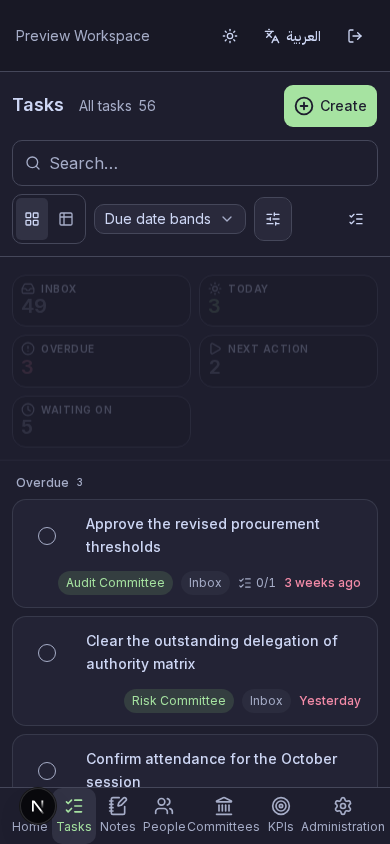
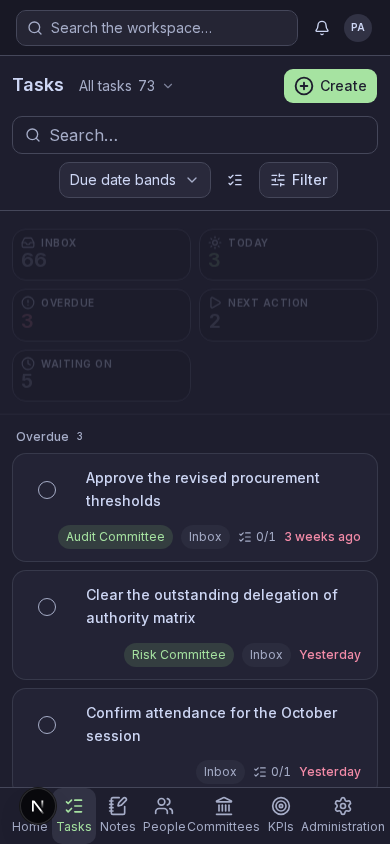
fix(shell): the header fits a phone, and the strip stands in for the rail
The search control used `w-full`, which on a flex item is the whole row
rather than the space that is left, and the button variant is shrink-0 --
so beside the bell and the avatar it pushed the header past 390px and
every entity page scrolled sideways on a phone. It takes the remaining
width and gives it back now.

EP-B32 to EP-B35 are written into the entity spec, and the summaries
scenario asserts the rule rather than the old behaviour: with the rail
open the strip is not drawn, because the rail is already showing those
views and counts; collapsing the rail is what brings it back.

diff --git a/e2e/tasks.spec.ts b/e2e/tasks.spec.ts
@@ -50,7 +50,13 @@ test('TASKS-B02 TASKS-B08 EP-B20 task cards retain an independent completion con
   const result = await api(page, '', 'POST', { title, priority: 'high' });
   const id = String(result.body.data.id);
   await page.goto(`/tasks?view=all&q=${encodeURIComponent(title)}`);
-  const firstSummary = page.locator('[data-entity-stats]').getByRole('button').first();
+  // EP-B35: the strip stands in for the rail and never doubles it. With the rail open at this
+  // width the same views and counts are already on screen, so the strip is not drawn; collapsing
+  // the rail is what brings it back, Inbox first and rounded.
+  const summaries = page.locator('[data-entity-stats]');
+  await expect(summaries).toBeHidden();
+  await page.getByRole('button', { name: en.common.collapseViews }).click();
+  const firstSummary = summaries.getByRole('button').first();
   await expect(firstSummary).toContainText(en.tasks.inbox);
   expect(await firstSummary.evaluate((element) => Number.parseFloat(getComputedStyle(element).borderRadius))).toBeGreaterThan(0);
   const open = page.locator(`[data-row-id="${id}"]`);

diff --git a/src/ui/layout/ShellHeader.tsx b/src/ui/layout/ShellHeader.tsx
@@ -26,7 +26,10 @@ export function ShellHeader({ user }: { user: { name: string; email: string } })
           typed and no state to hand over when it opens. */}
       <Button
         variant="outline"
-        className="w-full max-w-md justify-start gap-2 font-normal text-text-muted"
+        // `w-full` on a flex item is 100% of the row, not "the space that is left", and the button
+        // variant is `shrink-0` — so beside the bell and the avatar it pushed the header wider than
+        // a 390px screen. It takes the remaining width and is allowed to give it back instead.
+        className="min-w-0 flex-1 shrink basis-0 justify-start gap-2 font-normal text-text-muted sm:max-w-md"
         onClick={() => setSearching(true)}
       >
         <Search aria-hidden={true} className="size-4" />

diff --git a/docs/features/entity-pages.md b/docs/features/entity-pages.md
@@ -57,7 +57,7 @@ Twelve top-level props is the ceiling (`07-coding-guidelines.md`); related optio
 
 ## Layout
 
-- EP-B07 Desktop (≥ 1024 px): rail 208 px (collapsible, ≥ 1280 px), list, and the detail as a slide-over over the list at `clamp(480px, 46%, 880px)` of the window, running the full height of the viewport flush against its end edge, over the shell header as well as the page (EP-B26). The list keeps the width it had before the record opened: nothing resizes and no row moves under the click that opened it. 480 px stays the floor and 880 px the ceiling because that is the measure a property form reads at; the share is now of what the panel covers rather than of what it displaces. The list column opens with one sticky bar that carries the page title, the current view and its count (a button into the filter sheet where the rail is hidden), search, Filter, selection mode and the primary Create action; the page description is exposed to assistive technology only. Card lists place Create above the desktop views rail and use a compact search/sort/action toolbar; without a visible rail, the title/view and Create remain above it (EP-B22). Rows are 44 px single-line by default; group headers are 28 px; rail items 32 px with a divider before views marked `separated`. Views marked `featured` also show their count in a strip under the bar (tinted by `tone` when the count is above zero: `accent` and `danger` for the app's own semantics, `good`, `warn` and `bad` for the status scale a scorecard reads in); views may carry an `icon` for the rail. While a panel or the create form is open the shell sidebar, the rail and the list soften with a light blur so only the open record reads sharp, and they stay soft for as long as the record is open (EP-B23). Colours do not change. Keyboard focus is the single exception: focus within one of those surfaces restores it, because tabbing into the list has to leave it readable. The pointer does not, so passing over the list on the way to something else does not flicker it back and forth. The panel bar shows the item's position in the loaded list ("3 of 11") when no save is in flight, as a control: previous and next move through the loaded list from the panel. This reverses the earlier rule that moving between items is done from the list alone. While a record is open the list is covered on its end side and, since EP-B23, stays softened, so sending the reader back to it for the commonest move in triage is the wrong cost. The bar also carries the record's name once the heading has scrolled out of view, so a long record always says which one it is.
+- EP-B07 Desktop (≥ 1024 px): rail 208 px (collapsible, ≥ 1280 px), list, and the detail as a slide-over over the list at `clamp(480px, 46%, 880px)` of the window, running the full height of the viewport flush against its end edge, over the shell header as well as the page (EP-B26). The list keeps the width it had before the record opened: nothing resizes and no row moves under the click that opened it. 480 px stays the floor and 880 px the ceiling because that is the measure a property form reads at; the share is now of what the panel covers rather than of what it displaces. The list column opens with one sticky bar that carries the page title, the current view and its count (a button into the filter sheet where the rail is hidden), search, Filter, selection mode and the primary Create action; the page description is exposed to assistive technology only. Card lists place Create above the desktop views rail and use a compact search/sort/action toolbar; without a visible rail, the title/view and Create remain above it (EP-B22). Rows are 44 px single-line by default; group headers are 28 px; rail items 32 px with a divider before views marked `separated`. Views marked `featured` also show their count in a strip under the bar **where the rail is not showing them already** (EP-B35) (tinted by `tone` when the count is above zero: `accent` and `danger` for the app's own semantics, `good`, `warn` and `bad` for the status scale a scorecard reads in); views may carry an `icon` for the rail. While a panel or the create form is open the shell sidebar, the rail and the list soften with a light blur so only the open record reads sharp, and they stay soft for as long as the record is open (EP-B23). Colours do not change. Keyboard focus is the single exception: focus within one of those surfaces restores it, because tabbing into the list has to leave it readable. The pointer does not, so passing over the list on the way to something else does not flicker it back and forth. The panel bar shows the item's position in the loaded list ("3 of 11") when no save is in flight, as a control: previous and next move through the loaded list from the panel. This reverses the earlier rule that moving between items is done from the list alone. While a record is open the list is covered on its end side and, since EP-B23, stays softened, so sending the reader back to it for the commonest move in triage is the wrong cost. The bar also carries the record's name once the heading has scrolled out of view, so a long record always says which one it is.
 - EP-B08 Mobile: views `list` → `detail` → `create`, full screen, slide from the end side (`dir`-aware); rail as a bottom sheet with active-filter count. Back gesture and browser back both go to the previous view.
 - EP-B09 Direction: all animation and column order derive from `dir`.
 - EP-B27 `renderers.rowStyle: "grid"` lays the rows out as tiles in columns instead of stacked
@@ -77,6 +77,34 @@ Twelve top-level props is the ceiling (`07-coding-guidelines.md`); related optio
   does not become a ticker. Rows are keyed by identity, so a refetch returning the same records
   re-renders without replaying it; a new view, filter or reading (EP-B28) is a new screen and does
   replay it. Nothing cascades under reduced motion.
+- EP-B35 The list says a thing once. The rail lists every view with its count, and the statistics
+  strip re-draws the featured ones bigger forty pixels below it, and the toolbar's summary names the
+  current view a third time between them — the same facts three ways inside one screen, costing 85 px
+  of a desktop list and 198 px of a phone's. The strip and the summary are what a surface *without* a
+  rail gets instead of one, so both appear exactly where the rail does not: below 1280 px, and at any
+  width where the reader has collapsed it. Where they do appear the summary says it opens something,
+  because it is the only way into the views from there and muted text that silently opens a sheet is
+  not an affordance. Nothing is removed from the rail: it is the navigation, and the other two are
+  its stand-ins.
+- EP-B34 While a record is open the panel covers the end of the list, and everything the bar drew
+  under it stayed focusable — Tab walked into controls nobody could see, which is the one thing
+  EP-B26's "the list still takes Tab" was not supposed to mean. The bar keeps clear of the panel by
+  its width and carries only what fits in the strip that leaves: search and Filter. The rest are
+  list-wide settings the reader is not adjusting while working on one record, and they are genuinely
+  absent rather than hidden, so there are no phantom tab stops; they come back when the record
+  closes. The rows do not move, because EP-B26 promises the list keeps the width it had and only the
+  bar can step aside without breaking that.
+- EP-B33 A sort is not a filter. It reorders the list and never shortens it, so it is not counted on
+  a button that reports how many filters are on, it does not make an empty list "no matches", and the
+  filter sheet does not carry a third copy of it beside the bar's control and the table's headers
+  (EP-B31). A `filters.mode` is the same: EP-B28 already says it travels with the facets and is not
+  one, and counting it was what made choosing a period light up "Filters · 1" and widen the button.
+- EP-B32 The bar is one wrapping row, not two fixed ones. The title and the controls are two flex
+  items that share a line wherever the list is wide enough to hold both and stack where it is not, so
+  a desktop list opens with a 67 px header and a phone still gets the two-row form, without either
+  width being written down. The title takes only the width it needs once there is a row to share, so
+  the spare goes to the controls rather than to the gap after the heading; below that it grows again,
+  which is what holds Create against the end edge of a phone.
 - EP-B31 A column that names one of the module's sorts orders by it from its own header, and one
   that does not stays plain text: a header that looks orderable and is not is worse than one that
   never offered. This is the thing a table is expected to do and the sort dropdown could never be —
